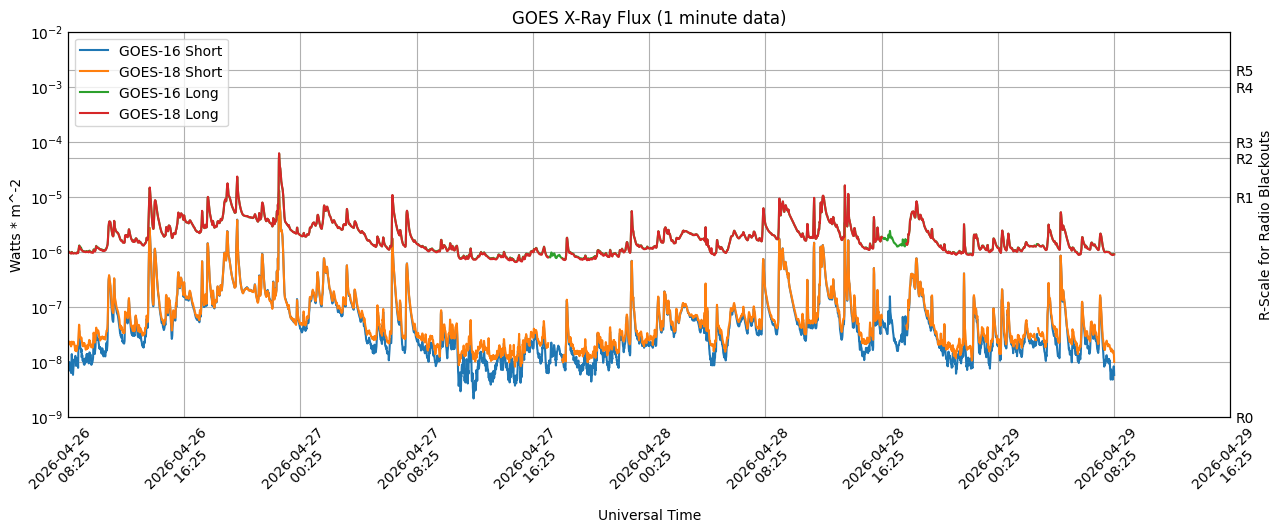
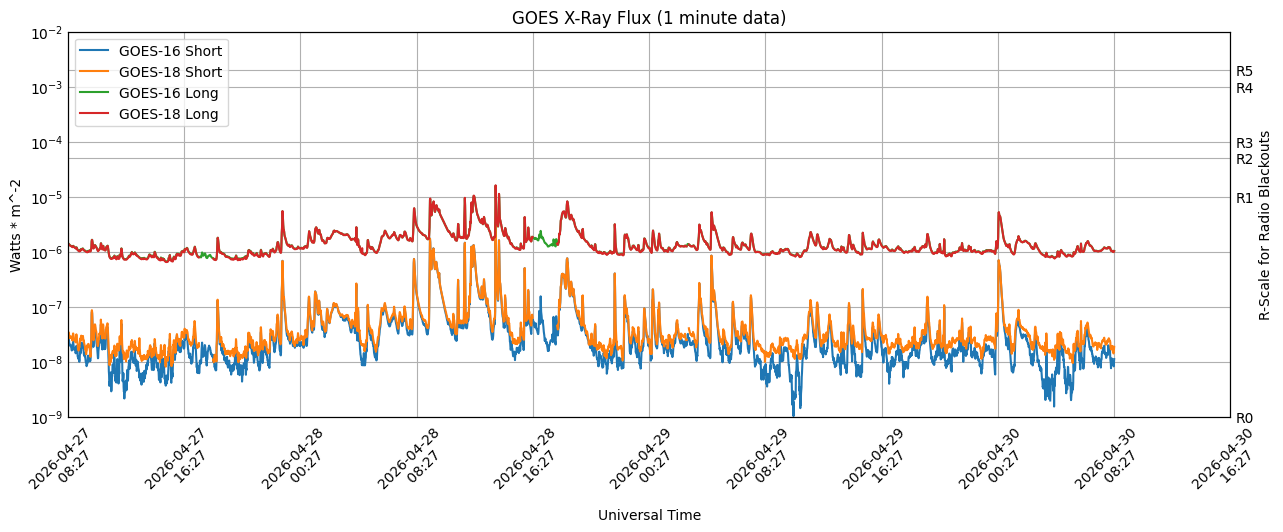
new day update

diff --git a/README.md b/README.md
@@ -1,18 +1,11 @@
 # Space Weather App
 ## Astronomical Picture of the Day
 ![Image](Astro_Images/image.jpg)
-<br />**Date image released:**  2026-04-29
-<br />**This image is owned by:**  Gianni Tumino
-
-Text:
-Keighley Rockcliffe  
-(NASA
-GSFC, 
-UMBC CSST, 
-CRESST II)
-<br />**Title of the image:**  The Moon, Venus, and the Pleiades
-<br />**Description for the image:**  No, Earth did not recently acquire six more moons!  Today’s APOD is a combination of images following the Moon, Venus, and the Pleiades across a southern Sicilian sky as twilight turned to evening on April 19. From 2023 to 2029, the Pleiades' and the Moon “visit" each other once per month due to the Pleiades' location in the ecliptic plane. April 2026 saw the celestial alignment of their visit with Venus.  About six stars in the Pleiades cluster (Messier 45) are typically visible with the unaided eye. Due to the cluster’s visibility across the world, there are many myths and legends across cultures associated with the Pleiades. The Haudenosaunee people of North America, for example, say that seven boys danced so enthusiastically that they lifted off into the sky. Astronomers recently found thousands more Pleiades members, showing that after thousands of years of gazing upon this cluster, there is yet more to learn about the Pleiades.
-<br />**URL for this image:**  https://apod.nasa.gov/apod/image/2604/moon_venus_pleiades.jpg
+<br />**Date image released:**  2015-09-23
+<br />**This image is owned by:**  Adrianos Golemis
+<br />**Title of the image:**  Antarctic Analemma
+<br />**Description for the image:**  Does the Sun return to the same spot on the sky every day? No.  A better and more visual answer to that question is an analemma, a composite image taken from the same spot at the same time over the course of a year. The featured weekly analemma was taken despite cold temperatures and high winds near the Concordia Station in Antarctica. The position of the Sun at 4 pm was captured on multiple days in the digital composite image, believed to be the first analemma constructed from Antarctica. The reason the image only shows the Sun from September to March is because the Sun was below the horizon for much of the rest of the year. In fact, today being an equinox, the Sun rises today at the South Pole after a six month absence and won't set again until the next equinox in March, baring large atmospheric refraction effects. Conversely, today the Sun sets at the North Pole after half a year of continuous daylight. For all of the Earth in between, though, the equinox means that today will have a nighttime and daytime that are both 12 hours long.    Follow APOD on: Facebook,  Google Plus, or Twitter
+<br />**URL for this image:**  https://apod.nasa.gov/apod/image/1509/AnalemmaAntarctica_Golemis_4608.jpg
 
 ## X-Ray Flux
 The GOES X-ray plots shown here are used to track solar activity and solar flares. Large solar X-ray flares can change the Earth’s ionosphere, which blocks high-frequency (HF) radio transmissions on the sunlit side of the Earth. Solar flares are also associated with Coronal Mass Ejections (CMEs) which can ultimately lead to geomagnetic storms. SWPC sends out space weather alerts at the M5 (5x10^-5 Watts/mw) level. Some large flares are accompanied by strong radio bursts that may interfere with other radio frequencies and cause problems for satellite communication and radio navigation (GPS).
@@ -56,7 +49,7 @@ Scale | Description | Effect
 ## 3-day Forecast
 ```
 :Product: 3-Day Forecast
-:Issued: 2026 Apr 29 0030 UTC
+:Issued: 2026 Apr 29 1230 UTC
 # Prepared by the U.S. Dept. of Commerce, NOAA, Space Weather Prediction Center
 #
 A. NOAA Geomagnetic Activity Observation and Forecast
@@ -71,7 +64,7 @@ NOAA Kp index breakdown Apr 29-May 01 2026
              Apr 29       Apr 30       May 01
 00-03UT       0.33         4.00         3.00     
 03-06UT       0.67         3.33         2.67     
-06-09UT       1.33         2.67         2.67     
+06-09UT       1.00         2.67         2.67     
 09-12UT       1.33         3.00         2.33     
 12-15UT       1.00         2.33         2.00     
 15-18UT       1.00         2.33         2.00     
@@ -93,7 +86,8 @@ S1 or greater   15%     15%     15%
 
 Rationale: There is a slight chance the greater than 10 MeV proton flux
 could reach S1 (Minor) levels, but is mainly expected to remain at
-background levels 29-30 Apr and 01 May.
+background levels 29 Apr - 01 May.
+
 
 C. NOAA Radio Blackout Activity and Forecast
 